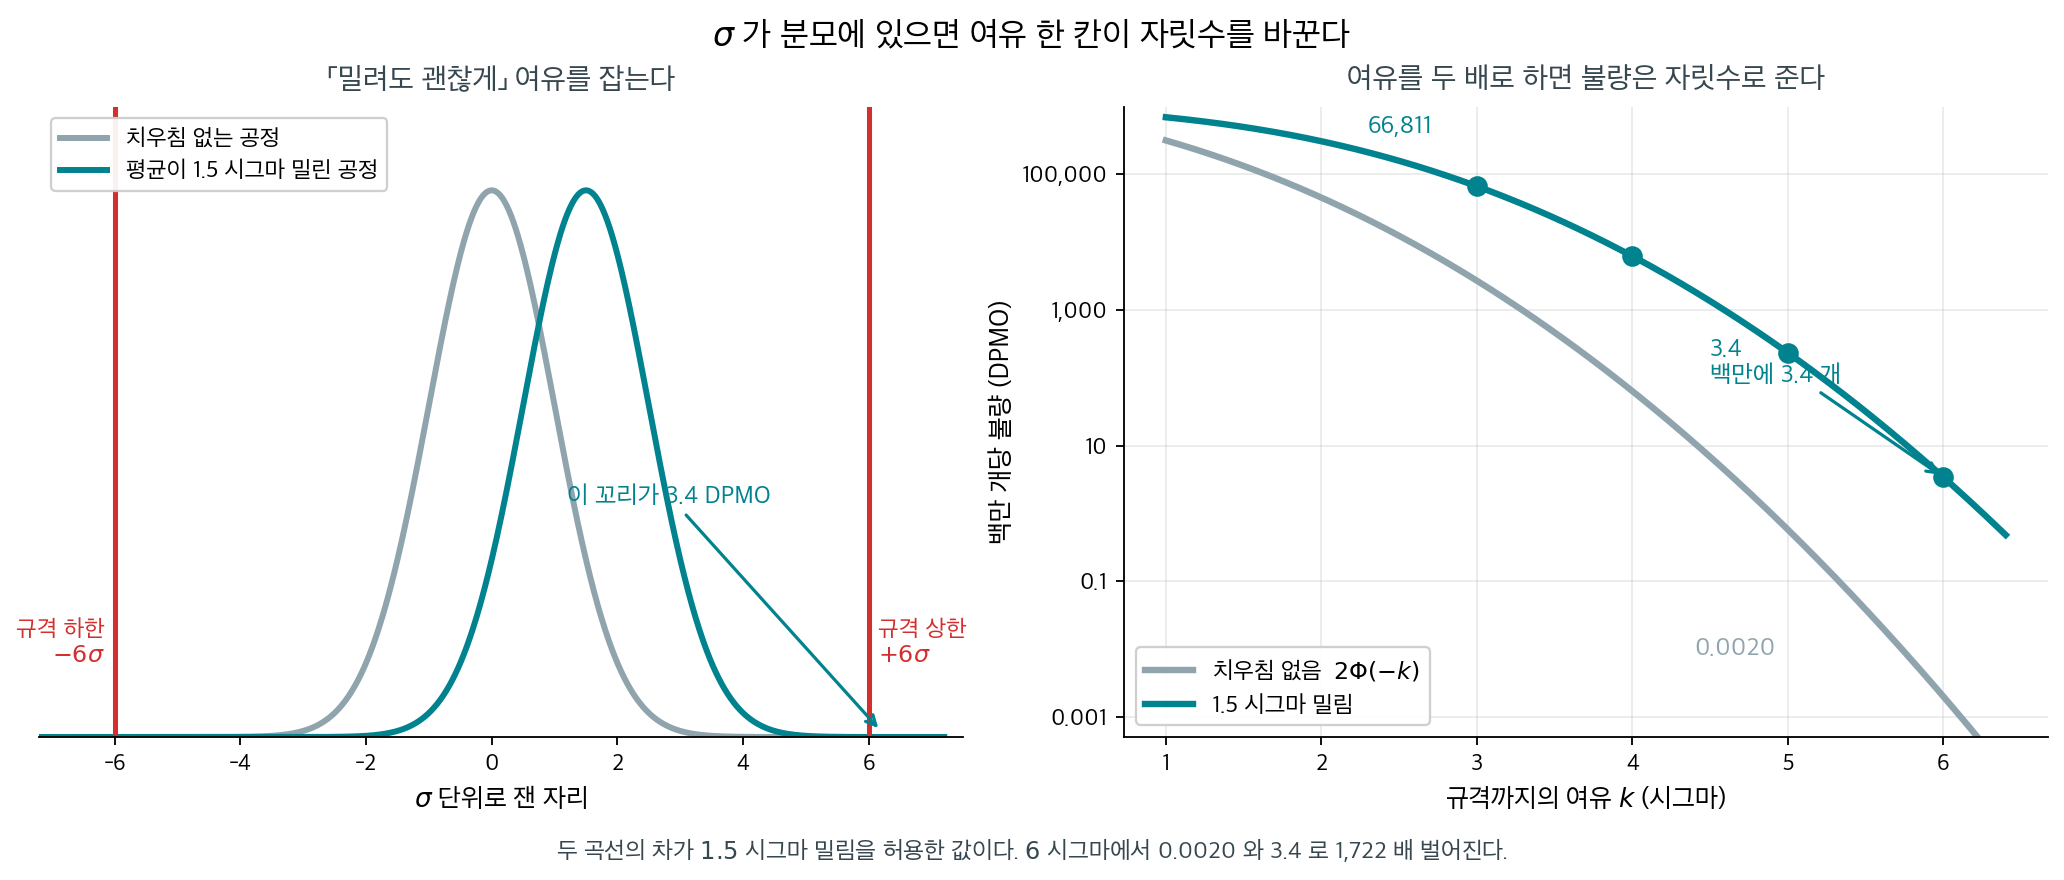
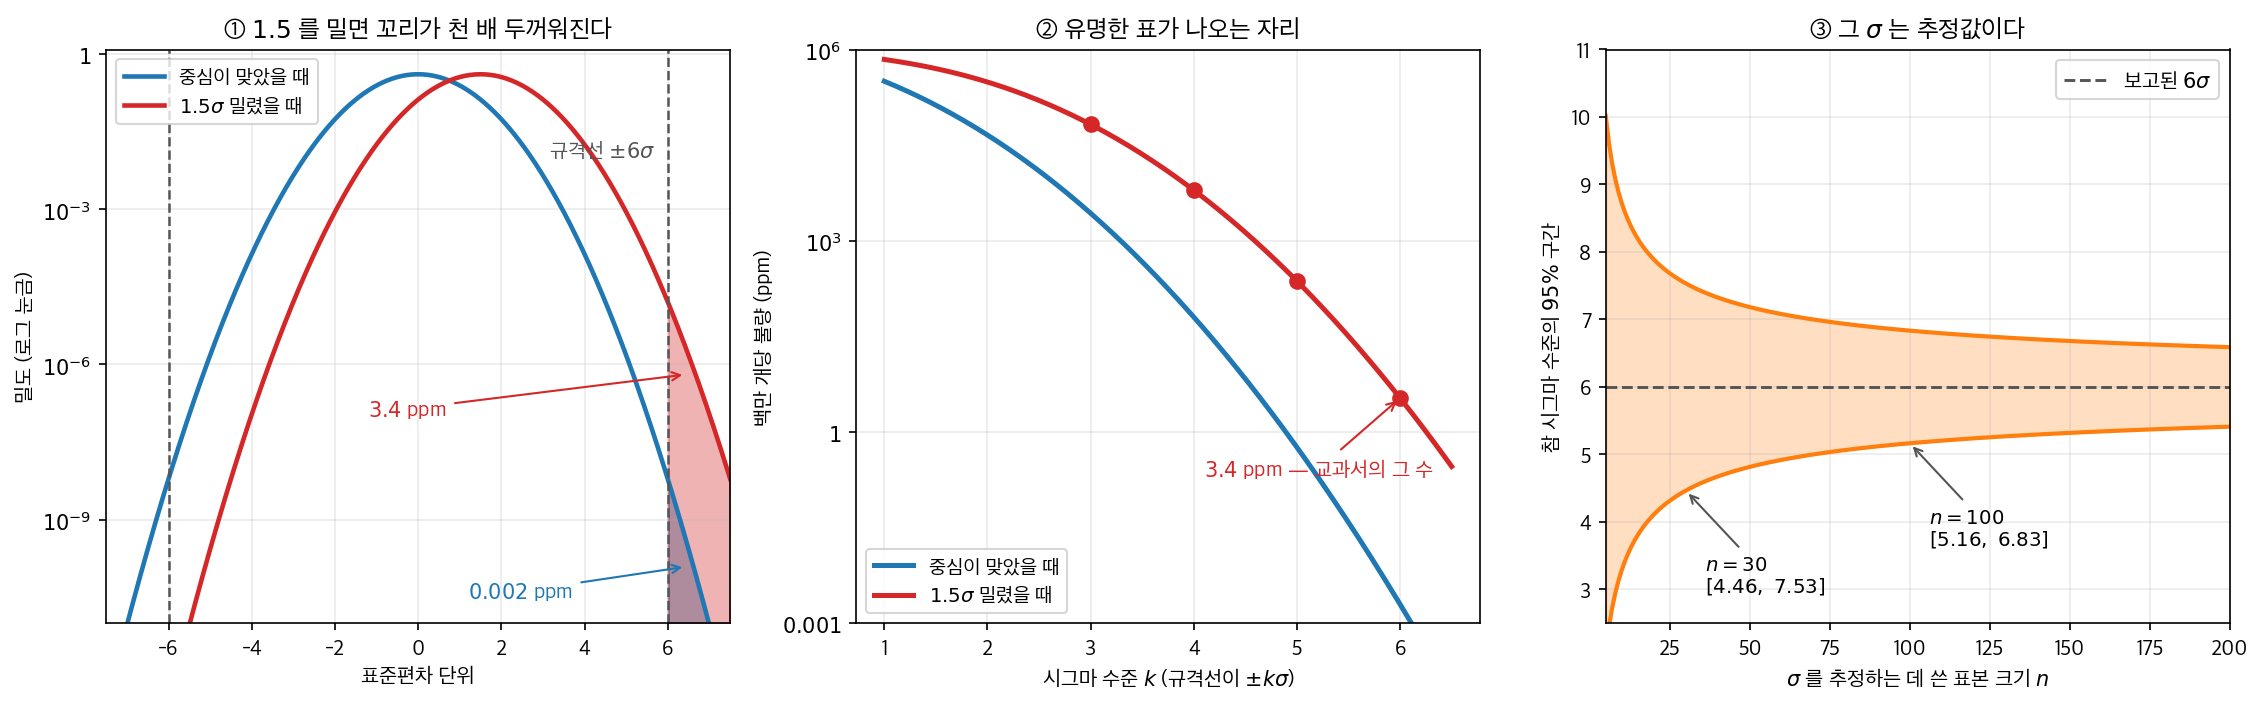
docs(ch15): 분산 검정 개관에 식스시그마의 3.4 상자를 붙임
3.4 ppm 은 Φ(-6)=0.002 ppm 이 아니라 Φ(-4.5) 다 — 1.5σ 이동 가정 하나가
1,722 배를 만든다. 「4시그마 공정」은 63 ppm 이 아니라 6,210 ppm.
그리고 그 σ 는 추정값이라, n=30 이면 참 시그마 수준이 [4.46, 7.53] 으로
벌어지고 ppm 상한이 보고값의 450 배가 된다.

diff --git a/scripts/make_ch15_six_sigma.py b/scripts/make_ch15_six_sigma.py
@@ -1,132 +1,149 @@
-r"""15.1절 「그림으로 보는 통계학」 — 이름에 시그마가 들어간 경영 운동.
+r"""식스시그마의 $3.4$ 는 $\Phi(-6)$ 이 아니라 $\Phi(-4.5)$ 다.
 
-이 쪽 §1 이 규격 이탈 확률을 2 Phi(-L/sigma) 로 적었다. 그 한 줄을
-목표로 삼아 이름까지 거기서 따온 것이 1980 년대의 「식스 시그마」다.
+① 중심이 맞은 정규와 $1.5\sigma$ 밀린 정규의 꼬리.
+② 시그마 수준별 백만 개당 불량 — 유명한 표가 어디서 나오는가.
+③ 그 $\sigma$ 는 추정값이다. $n$ 이 작으면 시그마 수준 자체가 흔들린다.
 
-  규격까지의 여유가 k 시그마일 때
-    치우침이 없으면        2 Phi(-k)
-    평균이 1.5 시그마 밀리면  Phi(-(k-1.5)) + Phi(-(k+1.5))
-
-6 시그마에서 앞엣것은 십억에 둘이고 뒤엣것은 백만에 3.4 다. 널리 인용되는
-「백만에 3.4」가 치우침을 1.5 시그마 허용한 쪽의 값이다.
-
-만드는 파일:
-
-  ch15/introduction/img/six_sigma.png
-
-실행:  python3 scripts/make_ch15_six_sigma.py   (저장소 최상위에서)
-필요:  numpy, scipy, matplotlib — 문서 빌드에는 필요하지 않다.
-       PNG는 커밋되므로 CI에서 다시 그리지 않는다.
+만드는 파일: docs/ch15/introduction/img/six_sigma.png
 """
 
 import numpy as np
-from scipy import stats
-
 import matplotlib
+
 matplotlib.use("Agg")
 import matplotlib.pyplot as plt
 
 plt.rcParams["font.family"] = "Apple SD Gothic Neo"
 plt.rcParams["axes.unicode_minus"] = False
 
-OUT = "docs/ch15/introduction/img/"
-
-INK = "#37474F"
-AMBER = "#B07C2C"
-TEAL = "#00838F"
-RED = "#D32F2F"
-MUTED = "#90A4AE"
+from scipy import stats  # noqa: E402
 
 SHIFT = 1.5
-MARKS = (3.0, 4.0, 5.0, 6.0)
 
 
 def dpmo_centered(k):
-    return 2 * stats.norm.cdf(-k) * 1e6
+    return 2 * stats.norm.sf(k) * 1e6
 
 
-def dpmo_shifted(k):
-    return (stats.norm.cdf(-(k - SHIFT)) + stats.norm.cdf(-(k + SHIFT))) * 1e6
+def dpmo_shifted(k, s=SHIFT):
+    """평균이 s 만큼 밀렸을 때 양쪽 규격을 벗어나는 비율."""
+    return (stats.norm.sf(k - s) + stats.norm.sf(k + s)) * 1e6
 
 
-def main():
-    print("    규격 여유   치우침 없음        1.5 시그마 밀림")
-    for k in MARKS:
-        print(f"    {k:g} 시그마   {dpmo_centered(k):12.4f} DPMO   "
-              f"{dpmo_shifted(k):11.2f} DPMO")
-    print(f"    6 시그마에서 두 값의 비 {dpmo_shifted(6)/dpmo_centered(6):.0f} 배")
+# === 그림 ==========================================================
+fig, (ax1, ax2, ax3) = plt.subplots(1, 3, figsize=(15.2, 4.8))
 
-    fig, axes = plt.subplots(1, 2, figsize=(12.4, 4.9), constrained_layout=True)
+# ① 두 정규와 ±6 규격선
+x = np.linspace(-7.5, 7.5, 1200)
+ax1.semilogy(x, stats.norm.pdf(x), color="#1f77b4", lw=2.2, label="중심이 맞았을 때")
+ax1.semilogy(
+    x, stats.norm.pdf(x, SHIFT), color="#d62728", lw=2.2, label="$1.5\\sigma$ 밀렸을 때"
+)
+xt = x[x >= 6]
+ax1.fill_between(xt, 1e-11, stats.norm.pdf(xt), color="#1f77b4", alpha=0.45)
+ax1.fill_between(xt, 1e-11, stats.norm.pdf(xt, SHIFT), color="#d62728", alpha=0.35)
+for s in (-6, 6):
+    ax1.axvline(s, color="#555555", lw=1.2, ls="--")
+ax1.text(5.7, 1e-2, "규격선 $\\pm 6\\sigma$", ha="right", fontsize=10, color="#555555")
+ax1.set_xlim(-7.5, 7.5)
+ax1.set_ylim(1e-11, 1.2)
+ax1.set_yticks([1e-9, 1e-6, 1e-3, 1])
+ax1.set_yticklabels(["$10^{-9}$", "$10^{-6}$", "$10^{-3}$", "$1$"])
+ax1.minorticks_off()
+ax1.set_xlabel("표준편차 단위")
+ax1.set_ylabel("밀도 (로그 눈금)")
+ax1.set_title("① $1.5$ 를 밀면 꼬리가 천 배 두꺼워진다", fontsize=12)
+ax1.legend(loc="upper left", fontsize=9.5)
+ax1.grid(alpha=0.25, which="major")
+ax1.annotate(
+    f"${dpmo_centered(6):.3f}$ ppm",
+    xy=(6.45, stats.norm.pdf(6.45) / 3),
+    xytext=(1.2, 3e-11),
+    fontsize=10,
+    color="#1f77b4",
+    arrowprops=dict(arrowstyle="->", color="#1f77b4", lw=1.0),
+)
+ax1.annotate(
+    f"${dpmo_shifted(6):.1f}$ ppm",
+    xy=(6.45, stats.norm.pdf(6.45, SHIFT) / 3),
+    xytext=(-1.2, 1e-7),
+    fontsize=10,
+    color="#d62728",
+    arrowprops=dict(arrowstyle="->", color="#d62728", lw=1.0),
+)
 
-    # ── 왼쪽: 1.5 시그마 밀림이 무엇인가 ──
-    ax = axes[0]
-    g = np.linspace(-7.2, 7.2, 1200)
-    ax.plot(g, stats.norm.pdf(g), lw=2.6, color=MUTED, label="치우침 없는 공정")
-    ax.plot(g, stats.norm.pdf(g, SHIFT), lw=2.6, color=TEAL,
-            label=f"평균이 {SHIFT} 시그마 밀린 공정")
-    for s in (-6, 6):
-        ax.axvline(s, color=RED, lw=2.2)
-    ax.text(6.15, 0.055, "규격 상한\n$+6\\sigma$", fontsize=10.4, color=RED)
-    ax.text(-6.15, 0.055, "규격 하한\n$-6\\sigma$", fontsize=10.4, color=RED,
-            ha="right")
-    tail = g[g >= 6]
-    ax.fill_between(tail, 0, stats.norm.pdf(tail, SHIFT), color=TEAL, alpha=0.5)
-    ax.annotate(f"이 꼬리가 {dpmo_shifted(6):.1f} DPMO", xy=(6.2, 0.004),
-                xytext=(1.2, 0.17), fontsize=10.8, color=TEAL,
-                arrowprops=dict(arrowstyle="->", color=TEAL, lw=1.4))
-    ax.set_xlim(-7.2, 7.5)
-    ax.set_ylim(0, 0.46)
-    ax.set_yticks([])
-    ax.set_xlabel("$\\sigma$ 단위로 잰 자리", fontsize=11.5)
-    ax.set_title("「밀려도 괜찮게」 여유를 잡는다", fontsize=12.8, color=INK, pad=8)
-    ax.legend(fontsize=10.2, framealpha=0.93, loc="upper left")
-    ax.spines[["top", "right", "left"]].set_visible(False)
+# ② 시그마 수준별 백만 개당 불량
+ks = np.linspace(1, 6.5, 300)
+ax2.semilogy(ks, dpmo_centered(ks), color="#1f77b4", lw=2.4, label="중심이 맞았을 때")
+ax2.semilogy(
+    ks, dpmo_shifted(ks), color="#d62728", lw=2.4, label="$1.5\\sigma$ 밀렸을 때"
+)
+for k in (3, 4, 5, 6):
+    ax2.plot([k], [dpmo_shifted(k)], "o", color="#d62728", ms=7, zorder=5)
+ax2.annotate(
+    "$3.4$ ppm — 교과서의 그 수",
+    xy=(6, dpmo_shifted(6)),
+    xytext=(4.1, 0.2),
+    fontsize=10,
+    color="#d62728",
+    arrowprops=dict(arrowstyle="->", color="#d62728", lw=1.0),
+)
+ax2.set_xlabel("시그마 수준 $k$ (규격선이 $\\pm k\\sigma$)")
+ax2.set_ylabel("백만 개당 불량 (ppm)")
+ax2.set_title("② 유명한 표가 나오는 자리", fontsize=12)
+ax2.set_ylim(1e-3, 1e6)
+ax2.set_yticks([1e-3, 1, 1e3, 1e6])
+ax2.set_yticklabels(["$0.001$", "$1$", "$10^3$", "$10^6$"])
+ax2.minorticks_off()
+ax2.legend(loc="lower left", fontsize=9.5)
+ax2.grid(alpha=0.25, which="major")
 
-    # ── 오른쪽: 여유에 따른 불량률 ──
-    ax = axes[1]
-    ks = np.linspace(1.0, 6.4, 400)
-    ax.semilogy(ks, dpmo_centered(ks), lw=2.8, color=MUTED,
-                label="치우침 없음  $2\\Phi(-k)$")
-    ax.semilogy(ks, dpmo_shifted(ks), lw=2.8, color=TEAL,
-                label=f"{SHIFT} 시그마 밀림")
-    for k in MARKS:
-        ax.plot([k], [dpmo_shifted(k)], marker="o", ms=8, color=TEAL, zorder=5)
-    ax.annotate(f"{dpmo_shifted(3):,.0f}", xy=(3, dpmo_shifted(3)),
-                xytext=(2.3, dpmo_shifted(3) * 6), fontsize=10.8, color=TEAL)
-    ax.annotate(f"{dpmo_shifted(6):.1f}\n백만에 {dpmo_shifted(6):.1f} 개",
-                xy=(6, dpmo_shifted(6)), xytext=(4.5, dpmo_shifted(6) * 25),
-                fontsize=10.8, color=TEAL,
-                arrowprops=dict(arrowstyle="->", color=TEAL, lw=1.4))
-    ax.annotate(f"{dpmo_centered(6):.4f}", xy=(6, dpmo_centered(6)),
-                xytext=(4.4, dpmo_centered(6) * 4), fontsize=10.8, color=MUTED)
-    ax.set_xlabel("규격까지의 여유 $k$ (시그마)", fontsize=11.5)
-    ax.set_ylabel("백만 개당 불량 (DPMO)", fontsize=11.5)
-    ax.set_title("여유를 두 배로 하면 불량은 자릿수로 준다",
-                 fontsize=12.8, color=INK, pad=8)
-    ax.set_xticks([1, 2, 3, 4, 5, 6])
-    # 로그 눈금 라벨을 평문으로 박는다 — mathtext 의 유니코드 마이너스가 두부가 된다
-    yt = [1e-3, 1e-1, 1e1, 1e3, 1e5]
-    ax.set_yticks(yt)
-    ax.set_yticklabels(["0.001", "0.1", "10", "1,000", "100,000"])
-    ax.minorticks_off()
-    ax.set_ylim(5e-4, 1e6)
-    ax.grid(alpha=0.25)
-    ax.legend(fontsize=10.4, framealpha=0.93, loc="lower left")
-    ax.spines[["top", "right"]].set_visible(False)
+# ③ sigma 는 추정값이다 — 시그마 수준의 신뢰구간
+ns = np.arange(5, 201)
+df = ns - 1
+lo = np.sqrt(df / stats.chi2.isf(0.025, df))  # sigma_hat 대비 sigma 의 하한 배수
+hi = np.sqrt(df / stats.chi2.isf(0.975, df))
+# 참 시그마 수준이 6 이라고 보고했을 때, 실제 수준 6*sigma_hat/sigma 의 구간
+ax3.fill_between(ns, 6 / hi, 6 / lo, color="#ff7f0e", alpha=0.25)
+ax3.plot(ns, 6 / hi, color="#ff7f0e", lw=2.0)
+ax3.plot(ns, 6 / lo, color="#ff7f0e", lw=2.0)
+ax3.axhline(6, color="#555555", lw=1.4, ls="--", label="보고된 $6\\sigma$")
+ax3.set_xlabel("$\\sigma$ 를 추정하는 데 쓴 표본 크기 $n$")
+ax3.set_ylabel("참 시그마 수준의 $95\\%$ 구간")
+ax3.set_title("③ 그 $\\sigma$ 는 추정값이다", fontsize=12)
+ax3.set_xlim(5, 200)
+ax3.set_ylim(2.5, 11)
+ax3.legend(loc="upper right", fontsize=10)
+ax3.grid(alpha=0.25)
+for n0 in (30, 100):
+    i = n0 - 5
+    ax3.annotate(
+        f"$n = {n0}$\n$[{6 / hi[i]:.2f},\\ {6 / lo[i]:.2f}]$",
+        xy=(n0, 6 / hi[i]),
+        xytext=(n0 + 6, 6 / hi[i] - 1.5),
+        fontsize=9.5,
+        arrowprops=dict(arrowstyle="->", color="#555555", lw=1.0),
+    )
 
-    fig.suptitle("$\\sigma$ 가 분모에 있으면 여유 한 칸이 자릿수를 바꾼다",
-                 fontsize=14.5)
-    fig.text(0.5, -0.05,
-             "두 곡선의 차가 $1.5$ 시그마 밀림을 허용한 값이다. "
-             f"$6$ 시그마에서 {dpmo_centered(6):.4f} 와 {dpmo_shifted(6):.1f} 로 "
-             f"{dpmo_shifted(6)/dpmo_centered(6):,.0f} 배 벌어진다.",
-             ha="center", fontsize=10.5, color=INK)
+fig.tight_layout()
+out = "docs/ch15/introduction/img/six_sigma.png"
+fig.savefig(out, dpi=150, bbox_inches="tight")
+print("saved", out)
 
-    path = OUT + "six_sigma.png"
-    fig.savefig(path, dpi=165, facecolor="white", bbox_inches="tight")
-    plt.close(fig)
-    print(f"saved {path}")
+# === 본문에 적을 수 =================================================
+print("\n② 시그마 수준별 백만 개당 불량")
+print(f"{'k':>4}{'중심이 맞았을 때':>18}{'1.5σ 밀렸을 때':>18}")
+for k in (1, 2, 3, 4, 5, 6):
+    print(f"{k:>4}{dpmo_centered(k):>18,.1f}{dpmo_shifted(k):>18,.1f}")
+print(f"\n  Φ(-6)*2 = {dpmo_centered(6):.6f} ppm   (십억 개에 두 개)")
+print(f"  Φ(-4.5) = {stats.norm.sf(4.5) * 1e6:.4f} ppm  ← 「3.4」 의 정체")
+print(f"  두 수의 비 = {dpmo_shifted(6) / dpmo_centered(6):,.0f} 배")
 
-
-if __name__ == "__main__":
-    main()
+print("\n③ 시그마 수준의 95% 구간 (참 수준이 6 일 때)")
+for n0 in (10, 30, 50, 100, 200):
+    i = n0 - 5
+    print(f"  n = {n0:>4}:  [{6 / hi[i]:.2f}, {6 / lo[i]:.2f}]")
+    print(
+        f"            ppm 으로 [{dpmo_shifted(6 / lo[i]):.1f}, "
+        f"{dpmo_shifted(6 / hi[i]):,.0f}]"
+    )

diff --git a/docs/ch15/introduction/introduction.md b/docs/ch15/introduction/introduction.md
@@ -5,6 +5,72 @@
 
 집단이나 모집단 사이에서 관찰된 분산의 차이가 통계적으로 유의한지 평가하기 위해 여러 통계검정이 개발되었다. 이 검정들은 한 표본 이상의 변동성이 다른 표본에 비해 크거나 작거나 같은지를 평가한다. 각 검정은 자료에 대한 고유한 가정(정규성, 독립성 등)을 가지며 서로 다른 유형의 분석에 적합하다.
 
+<div class="storybox" markdown>
+
+**그림으로 보는 통계학 1.** $3.4$ 는 어디서 왔는가
+
+분산이 **주인공**이 된 가장 큰 사례가 있다. $1986$ 년 모토로라의 기술자 **빌 스미스**가
+회사 안에서 쓰기 시작한 말, **식스시그마**다. $1988$ 년 모토로라는 그 공로로 첫
+맬컴 볼드리지 국가품질상을 받았고, $1995$ 년 제너럴 일렉트릭의 **잭 웰치**가 회사의
+핵심 전략으로 삼으면서 전 세계로 퍼졌다. 경영서가 수백 권 나왔다.
+
+그 전부가 한 문장 위에 서 있다. 「**식스시그마는 백만 개에 $3.4$ 개다.**」
+
+그런데 규격선이 평균에서 $6\sigma$ 떨어져 있고 공정이 정규이며 중심이 맞아 있다면,
+규격을 벗어날 확률은
+
+$$
+2\,\Phi(-6) = 1.97 \times 10^{-9} = 0.002\ \text{ppm}
+$$
+
+이다. 백만 개에 $3.4$ 개가 아니라 **십억 개에 두 개**다. $3.4$ 는 $1{,}700$ 배나
+느슨하다. 틀린 수가 교과서에 실린 것인가.
+
+<figure markdown>
+![왼쪽은 중심이 맞은 정규와 1.5 시그마 밀린 정규를 로그 눈금 밀도로 겹쳐 그리고 ±6 규격선 바깥을 칠한 그림, 가운데는 시그마 수준별 백만 개당 불량이 두 곡선으로 갈려 6 시그마에서 0.002 와 3.4 가 되는 그림, 오른쪽은 시그마를 n 개로 추정했을 때 참 시그마 수준의 95 퍼센트 구간이 n=30 에서 4.46 부터 7.53 까지 벌어지는 그림](img/six_sigma.png){ width="960" }
+  <figcaption markdown>왼쪽 두 칠한 영역의 넓이 비가 $1{,}722$ 배다. 미는 폭 $1.5$ 가 그 전부를 만든다.</figcaption>
+</figure>
+
+답은 왼쪽 칸에 있다. 모토로라는 **공정의 중심이 장기적으로 $1.5\sigma$ 쯤 밀린다**고
+보았다. 기계가 닳고 온도가 바뀌고 재료가 달라진다. 평균이 $1.5$ 밀리면 먼 쪽 규격선까지
+남는 거리는 $6 - 1.5 = 4.5$ 뿐이고,
+
+$$
+\Phi(-4.5) = 3.40 \times 10^{-6} = 3.4\ \text{ppm}
+$$
+
+이 나온다. **$3.4$ 는 $\Phi(-6)$ 이 아니라 $\Phi(-4.5)$ 다.**
+
+가운데 칸이 널리 돌아다니는 그 표다. 두 줄이 나란히 있어야 읽을 수 있다.
+
+| 시그마 수준 | 중심이 맞았을 때 | $1.5\sigma$ 밀렸을 때 |
+|---:|---:|---:|
+| $3\sigma$ | $2{,}700$ ppm | $66{,}811$ ppm |
+| $4\sigma$ | $63$ ppm | $6{,}210$ ppm |
+| $5\sigma$ | $0.6$ ppm | $233$ ppm |
+| $6\sigma$ | $0.002$ ppm | $3.4$ ppm |
+
+오른쪽 열이 경영서에 실린 수다. 그러니 「우리 공정은 $4\sigma$ 입니다」라는 말은
+**불량이 백만 개에 $63$ 개라는 뜻이 아니라 $6{,}210$ 개라는 뜻**이고, 그 백 배 차이는
+공정이 아니라 **밀리는 폭에 대한 가정** 하나에서 온다. $1.5$ 는 확률에서 유도한 수가
+아니라 모토로라가 공장에서 관찰했다고 보고한 값이다.
+[슈하트가 관리도의 한계선을 $3$ 으로 고른 것](../../ch09/one_sample_tests/z_test_proportion.md)과
+같은 성격의 수이며, 그래서 줄곧 논란이 되어 왔다.
+
+여기서 이 장이 시작된다. 오른쪽 칸을 보라. 저 모든 수의 분모에 $\sigma$ 가 있는데,
+$\sigma$ 는 **재어서 얻는 값**이다. $n = 30$ 개로 추정해 「$6\sigma$ 공정」이라고
+보고했다면, 참 시그마 수준의 $95\%$ 구간은 $[4.46,\ 7.53]$ 이다. ppm 으로 옮기면
+$[0.0,\ 1{,}522]$ — 상한이 보고값의 **$450$ 배**다. $n = 100$ 이라야 $[5.16,\ 6.83]$ 으로
+좁혀진다.
+
+**분산의 추정값 하나에 사업 전체가 걸려 있는데, 그 추정값에 얼마나 큰 오차가 붙는지를
+묻는 것이 이 장의 일이다.** 두 공정의 분산이 정말 다른지, 그 차이가 표본의 장난인지를
+가리는 도구가 아래 $2$ 절부터 줄줄이 나온다.
+
+_확인한 곳 — 빌 스미스가 $1986$ 년 모토로라에서 식스시그마를 시작한 것, 모토로라의 $1988$ 년 볼드리지상, GE 가 $1995$ 년에 채택한 것, $1.5\sigma$ 이동 가정. 표의 수는 모두 직접 계산한 값이다_
+
+</div>
+
 ---
 
 ## 2. 분산 검정 개관
